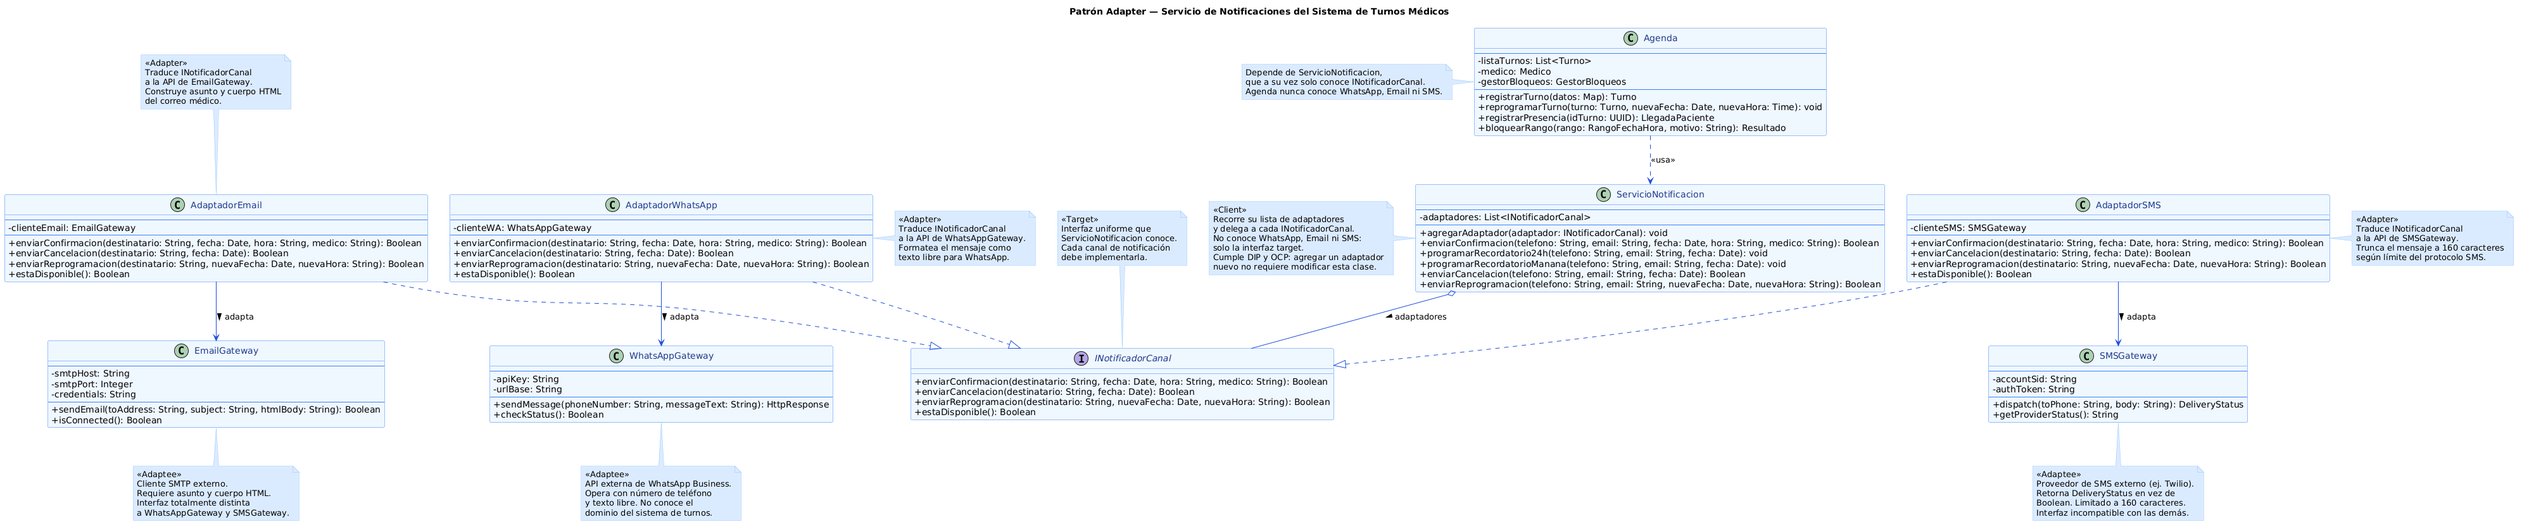
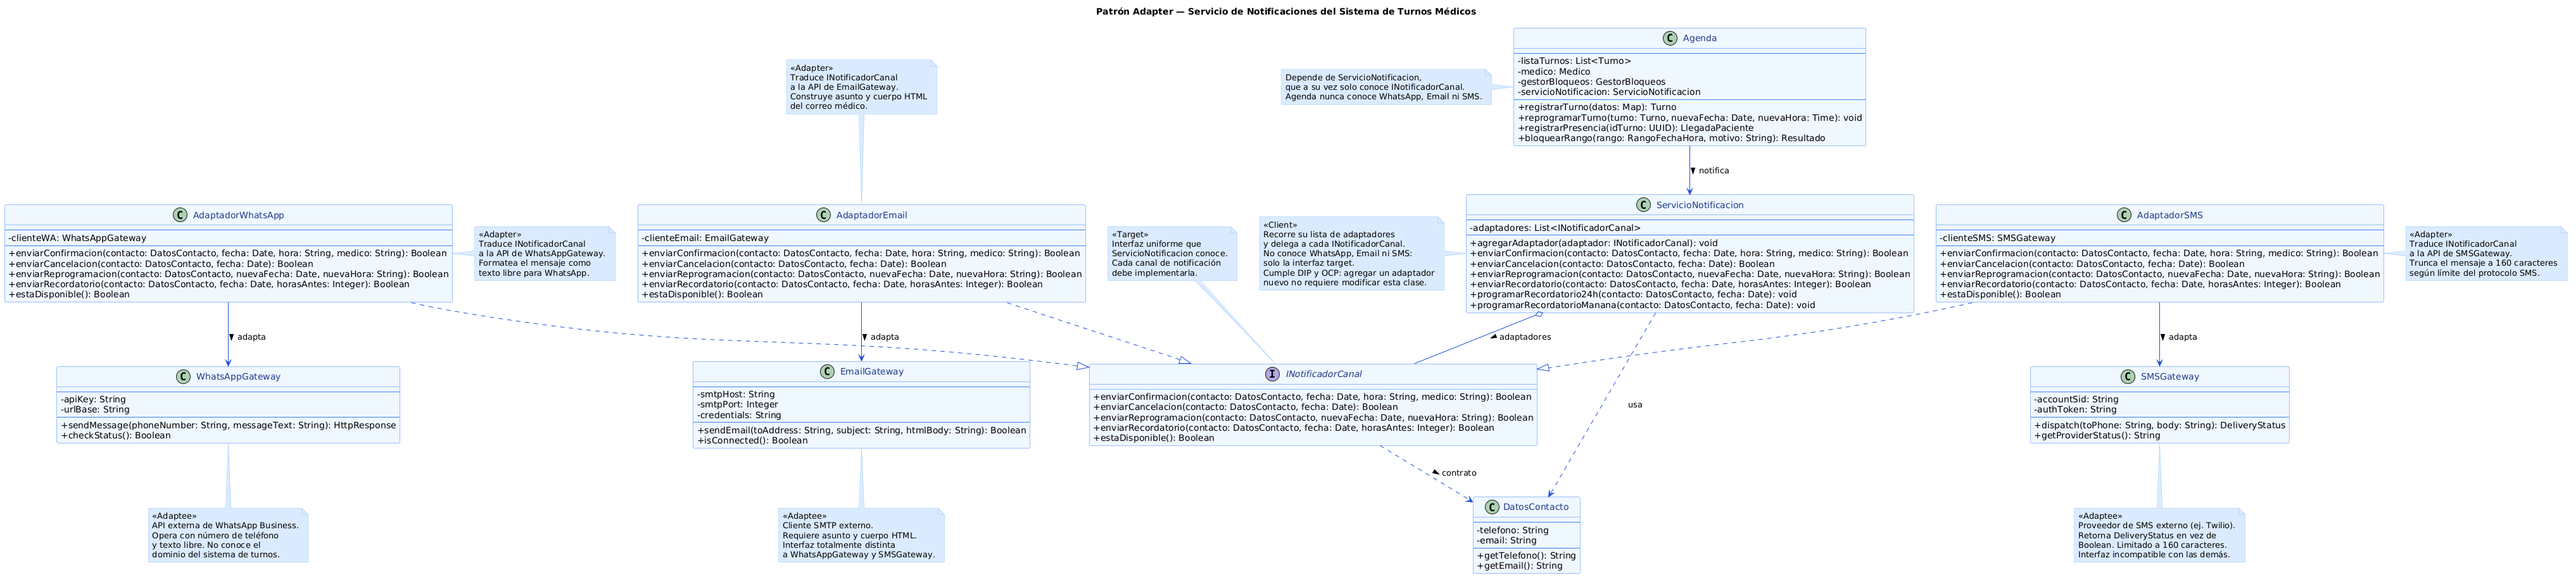
Commit - Correcciones y modificación de estructura en el archivo patron de dineno estructural

diff --git a/anexos/patrones-diseno/patron-de-diseno-estructural.md b/anexos/patrones-diseno/patron-de-diseno-estructural.md
@@ -1,62 +1,76 @@
-# Patrón de Diseño Estructural — Adapter
+# Anexo - Aplicacion de Patron de Diseno Estructural
+
+## Adapter - Patrones de Diseno Estructurales y su relacion con SOLID
 
 ---
 
-## 1. Propósito y Tipo del Patrón
+## Proposito y Tipo del Patron
 
-### Patrones estructurales y su relación con SOLID
+### Patrones estructurales y su relacion con SOLID
 
-Los patrones de diseño estructurales de GoF se ocupan de cómo se componen clases y objetos para formar estructuras más grandes, sin perder flexibilidad ni claridad. Su objetivo no es describir algoritmos ni flujos de control, sino establecer la forma en que las piezas del sistema se conectan entre sí.
+Los patrones de diseno estructurales de GoF se ocupan de como se componen clases y objetos para formar estructuras mas grandes, sin perder flexibilidad ni claridad. Su objetivo no es describir algoritmos ni flujos de control, sino establecer la forma en que las piezas del sistema se conectan entre si.
 
-Su relación con los principios SOLID es directa:
+Su relacion con los principios SOLID es directa:
 
-| Principio | Cómo lo refuerzan los patrones estructurales |
+| Principio | Como lo refuerzan los patrones estructurales |
 |-----------|---------------------------------------------|
-| SRP | Separan la lógica de adaptación o composición en clases dedicadas, evitando que una clase acumule responsabilidades de traducción además de las propias |
+| SRP | Separan la logica de adaptacion o composicion en clases dedicadas, evitando que una clase acumule responsabilidades de traduccion ademas de las propias |
 | OCP | Permiten extender el comportamiento del sistema (nuevos canales, componentes, decoradores) sin modificar las clases existentes |
 | DIP | El cliente depende de una abstracción (interfaz target), no de implementaciones concretas |
-| ISP | Las interfaces target son reducidas y específicas; cada adaptador implementa solo lo que corresponde |
+| ISP | Las interfaces target son reducidas y especificas; cada adaptador implementa solo lo que corresponde |
 
-### El patrón Adapter
+### Proposito:
 
-El patrón **Adapter** (también llamado *Wrapper*) permite que dos clases con interfaces incompatibles trabajen juntas. Introduce una clase intermediaria —el *Adapter*— que traduce las llamadas de la interfaz que el cliente conoce (*target*) a las llamadas que requiere la clase existente (*adaptee*).
+**Problema estructural:** `ServicioNotificacion` era una clase concreta que enviaba notificaciones unicamente a traves de WhatsApp. `Agenda` la creaba directamente (`<<crea>>`), acoplandose a una implementacion especifica. Para agregar notificaciones por email o SMS, era necesario modificar tanto `ServicioNotificacion` como `Agenda`, violando OCP y DIP. Adicionalmente, cada proveedor externo (WhatsApp Business API, SMTP, Twilio) expone una interfaz completamente distinta: metodos con nombres, parametros y tipos de retorno incompatibles entre si.
 
-### Problema específico y cómo el patrón lo soluciona
+**Como lo resuelve el patron:** Se introduce la interfaz `INotificadorCanal` como *target*. Cada proveedor externo es envuelto por un *Adapter* (`AdaptadorWhatsApp`, `AdaptadorEmail`, `AdaptadorSMS`) que traduce `INotificadorCanal` a la API del proveedor correspondiente. `ServicioNotificacion` pasa a ser el *client*: solo conoce `INotificadorCanal` y delega en los canales registrados. `Agenda` ya no crea ni conoce ningun canal concreto; solo usa `ServicioNotificacion`.
 
-**Problema:** `ServicioNotificacion` era una clase concreta que enviaba notificaciones únicamente a través de WhatsApp. `Agenda` la creaba directamente (`<<crea>>`), acoplándose a una implementación específica. Para agregar notificaciones por email o SMS, era necesario modificar tanto `ServicioNotificacion` como `Agenda`, violando OCP y DIP. Adicionalmente, cada proveedor externo (WhatsApp Business API, SMTP, Twilio) expone una interfaz completamente distinta: métodos con nombres, parámetros y tipos de retorno incompatibles entre sí.
+### Tipo:
 
-**Solución:** Se introduce la interfaz `INotificadorCanal` como *target*. Cada proveedor externo es envuelto por un *Adapter* (`AdaptadorWhatsApp`, `AdaptadorEmail`, `AdaptadorSMS`) que traduce `INotificadorCanal` a la API del proveedor correspondiente. `ServicioNotificacion` pasa a ser el *client*: solo conoce `INotificadorCanal` y delega en los canales registrados. `Agenda` ya no crea ni conoce ningún canal concreto; solo usa `ServicioNotificacion`.
+Patron estructural seleccionado: **Adapter**.
+
+El patron **Adapter** (tambien llamado *Wrapper*) permite que dos clases con interfaces incompatibles trabajen juntas. Introduce una clase intermediaria, el *Adapter*, que traduce las llamadas de la interfaz que el cliente conoce (*target*) a las llamadas que requiere la clase existente (*adaptee*).
+
+Se elige Adapter porque el problema principal del sistema es la incompatibilidad entre APIs externas de notificacion (WhatsApp, Email, SMS), y se necesita una interfaz uniforme para evitar acoplamiento y permitir extensibilidad.
 
 ---
 
-## 2. Motivación
+## Motivacion
 
-### Problema en profundidad
+En esta seccion se describe en detalle:
 
-El sistema de turnos médicos contempla notificaciones como parte del flujo de negocio: confirmación de turno (CU1), recordatorios automáticos, notificación de reprogramación (CU3) y cancelación de recordatorios tras check-in (CU2). En el diagrama final (v4), `Agenda` era responsable de crear `ServicioNotificacion` y `ServicioNotificacion` concentraba toda la lógica de envío para un único canal, WhatsApp.
+- Como estaban estructuradas inicialmente las clases del sistema.
+- Que problemas surgian debido a la rigidez de las relaciones entre clases (acoplamiento, complejidad, falta de extensibilidad).
+- Que clases participaban en el problema original.
+- Que nuevas clases incorpora el patron estructural y cual es el rol de cada una.
+- Como el patron organiza la arquitectura para resolver el inconveniente detectado (desacoplamiento, simplificacion, encapsulamiento).
 
-Este diseño presentaba tres problemas concretos:
+### Desarrollo del caso real
 
-1. **Dificultad para incorporar nuevos canales de notificación**
+El sistema de turnos medicos contempla notificaciones como parte del flujo de negocio: confirmacion de turno (CU1), recordatorios automaticos, notificacion de reprogramacion (CU3) y cancelacion de recordatorios tras check-in (CU2). En el diagrama final (v4), `Agenda` era responsable de crear `ServicioNotificacion` y `ServicioNotificacion` concentraba toda la logica de envio para un unico canal, WhatsApp.
 
-El sistema estaba diseñado para enviar notificaciones únicamente mediante WhatsApp. Si la clínica necesitaba incorporar un nuevo canal, como email o SMS, era necesario modificar ServicioNotificacion para agregar la lógica correspondiente. Esto dificultaba extender el sistema con nuevas alternativas de comunicación y hacía que cada incorporación implicara cambios sobre código existente.
+Este diseno presentaba tres problemas concretos:
+
+1. **Dificultad para incorporar nuevos canales de notificacion**
+
+El sistema estaba disenado para enviar notificaciones unicamente mediante WhatsApp. Si la clinica necesitaba incorporar un nuevo canal, como email o SMS, era necesario modificar `ServicioNotificacion` para agregar la logica correspondiente. Esto dificultaba extender el sistema con nuevas alternativas de comunicacion y hacia que cada incorporacion implicara cambios sobre codigo existente.
 
 2. **Interfaces externas incompatibles**
 
-Cada proveedor de notificaciones ofrece una API diferente. Mientras WhatsApp utiliza un método como sendMessage(phoneNumber, messageText), un servicio de correo electrónico requiere dirección, asunto y cuerpo del mensaje, y un proveedor de SMS puede devolver un tipo de dato distinto. Estas diferencias impiden utilizar todos los proveedores mediante una interfaz común, obligando al sistema a adaptarse a cada API en particular.
+Cada proveedor de notificaciones ofrece una API diferente. Mientras WhatsApp utiliza un metodo como `sendMessage(phoneNumber, messageText)`, un servicio de correo electronico requiere direccion, asunto y cuerpo del mensaje, y un proveedor de SMS puede devolver un tipo de dato distinto. Estas diferencias impiden utilizar todos los proveedores mediante una interfaz comun, obligando al sistema a adaptarse a cada API en particular.
 
 3. **Dependencia directa de infraestructura**
 
-La lógica del sistema quedaba vinculada a clases concretas encargadas de comunicarse con proveedores externos de notificaciones. Como consecuencia, las clases del dominio terminaban dependiendo de implementaciones específicas de infraestructura en lugar de hacerlo de una abstracción. Esto incrementaba el acoplamiento entre ambas capas y reducía la flexibilidad de la arquitectura ante cambios tecnológicos.
+La logica del sistema quedaba vinculada a clases concretas encargadas de comunicarse con proveedores externos de notificaciones. Como consecuencia, las clases del dominio terminaban dependiendo de implementaciones especificas de infraestructura en lugar de hacerlo de una abstraccion. Esto incrementaba el acoplamiento entre ambas capas y reducia la flexibilidad de la arquitectura ante cambios tecnologicos.
 
-### Cómo el patrón Adapter resuelve el problema
+### Como el patron Adapter resuelve el problema
 
-El patrón introduce un nivel de indirección mediante la interfaz *target* `INotificadorCanal`. El vocabulario del patrón en este sistema es el siguiente:
+El patron introduce un nivel de indireccion mediante la interfaz *target* `INotificadorCanal`. El vocabulario del patron en este sistema es el siguiente:
 
-| Rol GoF | Clase en el sistema | Descripción |
+| Rol GoF | Clase en el sistema | Descripcion |
 |---------|--------------------|-------------------------------------------------|
-| **Target** | `INotificadorCanal` | Interfaz uniforme que el client conoce. Define `enviarConfirmacion()`, `enviarCancelacion()`, `enviarReprogramacion()` y `estaDisponible()` |
-| **Client** | `ServicioNotificacion` | Usa `INotificadorCanal`. Mantiene una lista de adapters para traducir la misma operación de negocio a APIs externas incompatibles, sin conocer proveedores concretos |
+| **Target** | `INotificadorCanal` | Interfaz uniforme que el client conoce. Define `enviarConfirmacion()`, `enviarCancelacion()`, `enviarReprogramacion()`, `enviarRecordatorio()` y `estaDisponible()` |
+| **Client** | `ServicioNotificacion` | Usa `INotificadorCanal`. Mantiene una lista de adapters para traducir la misma operacion de negocio a APIs externas incompatibles, sin conocer proveedores concretos |
 | **Adapter** | `AdaptadorWhatsApp` | Implementa `INotificadorCanal` y traduce las llamadas a `WhatsAppGateway.sendMessage()` |
 | **Adapter** | `AdaptadorEmail` | Implementa `INotificadorCanal` y construye asunto + cuerpo HTML antes de llamar a `EmailGateway.sendEmail()` |
 | **Adapter** | `AdaptadorSMS` | Implementa `INotificadorCanal`, trunca el mensaje a 160 caracteres y convierte el `DeliveryStatus` de retorno a `Boolean` antes de delegar en `SMSGateway.dispatch()` |
@@ -66,34 +80,62 @@ El patrón introduce un nivel de indirección mediante la interfaz *target* `INo
 
 ### Clases implicadas: rol y responsabilidad
 
-**`INotificadorCanal` (nueva — target):**  
-Define el contrato mínimo para cualquier canal de notificación del sistema. Es la única cosa que `ServicioNotificacion` conoce de los canales. Su existencia permite cumplir DIP: el dominio depende de esta abstracción, nunca de los proveedores concretos.
+**`INotificadorCanal` (nueva - target):**
+Define el contrato minimo para cualquier canal de notificacion del sistema. Es la unica cosa que `ServicioNotificacion` conoce de los canales. Su existencia permite cumplir DIP: el dominio depende de esta abstraccion, nunca de los proveedores concretos.
 
-**`ServicioNotificacion` (modificada — client):**  
-Deja de ser un canal concreto y pasa a ser un *orquestador de adapters*. Mantiene una lista de `INotificadorCanal` porque cada elemento traduce el mismo contrato del dominio hacia una API externa incompatible. Al recibir una solicitud de notificación, delega en los adapters disponibles sin conocer detalles del proveedor. Esta separación hace explícito que la responsabilidad central es la adaptación de interfaces y no la lógica del canal externo.
+**`ServicioNotificacion` (modificada - client):**
+Deja de ser un canal concreto y pasa a ser un *orquestador de adapters*. Mantiene una lista de `INotificadorCanal` porque cada elemento traduce el mismo contrato del dominio hacia una API externa incompatible. Al recibir una solicitud de notificacion, delega en los adapters disponibles sin conocer detalles del proveedor. Esta separacion hace explicito que la responsabilidad central es la adaptacion de interfaces y no la logica del canal externo.
 
-**`AdaptadorWhatsApp`, `AdaptadorEmail`, `AdaptadorSMS` (nuevas — adapters):**  
-Cada uno conoce exactamente un adaptee. Su única responsabilidad es traducir el vocabulario de `INotificadorCanal` al vocabulario de la API concreta. Por ejemplo, `AdaptadorSMS` sabe que `SMSGateway.dispatch()` devuelve `DeliveryStatus`, y lo convierte a `Boolean` para respetar el contrato del target. Cada adapter también implementa `estaDisponible()` consultando el estado del proveedor, lo que permite que `ServicioNotificacion` omita un canal si su proveedor está caído.
+**`AdaptadorWhatsApp`, `AdaptadorEmail`, `AdaptadorSMS` (nuevas - adapters):**
+Cada uno conoce exactamente un adaptee. Su unica responsabilidad es traducir el vocabulario de `INotificadorCanal` al vocabulario de la API concreta. Por ejemplo, `AdaptadorSMS` sabe que `SMSGateway.dispatch()` devuelve `DeliveryStatus`, y lo convierte a `Boolean` para respetar el contrato del target. Cada adapter tambien implementa `estaDisponible()` consultando el estado del proveedor, lo que permite que `ServicioNotificacion` omita un canal si su proveedor esta caido.
 
-**`WhatsAppGateway`, `EmailGateway`, `SMSGateway` (existentes o de terceros — adaptees):**  
-Son clases externas cuya interfaz no se controla ni se modifica. El patrón Adapter es precisamente la herramienta para trabajar con APIs de terceros sin acoplar el dominio a ellas.
+**`WhatsAppGateway`, `EmailGateway`, `SMSGateway` (existentes o de terceros - adaptees):**
+Son clases externas cuya interfaz no se controla ni se modifica. El patron Adapter es precisamente la herramienta para trabajar con APIs de terceros sin acoplar el dominio a ellas.
 
-**`Agenda` (sin cambios en su interfaz):**  
-Sigue usando `ServicioNotificacion` para notificaciones. Con el patrón aplicado, `Agenda` no necesita cambiar cuando se incorpora un nuevo canal: basta con crear un nuevo adapter e inyectarlo en `ServicioNotificacion`.
+**`Agenda` (sin cambios en su interfaz):**
+Sigue usando `ServicioNotificacion` para notificaciones. Con el patron aplicado, `Agenda` no necesita cambiar cuando se incorpora un nuevo canal: basta con crear un nuevo adapter e inyectarlo en `ServicioNotificacion`.
 
-### Diagrama de clases
+## Estructura de Clases
 
-## Patrón Estructural - Adapter
-![Patrón Estructural - Adapter](../../diagramas/01-diagrama-clases/01-patron-estructural-adapter.png)
+Solo se incluyen en el diagrama las clases directamente relacionadas con la aplicacion del patron, evitando sobrecargarlo con detalles irrelevantes. Esto permite visualizar claramente la estructura solucion-problema.
+
+### Ver diagrama en tamano completo
+
+![Patron Estructural - Adapter](../../diagramas/01-diagrama-clases/01-patron-estructural-adapter.png)
 
 
 ---
 
-## 3. Relación con los principios SOLID del proyecto
+## Justificacion Tecnica de la Estructura de Clases
 
-| Principio | Impacto del patrón Adapter |
+En esta seccion se proporciona una explicacion tecnica basada en el diagrama UML presentado anteriormente.
+
+### Descripcion de cada clase incluida en el diagrama
+
+**`INotificadorCanal` (nueva - target):**
+Define el contrato minimo para cualquier canal de notificacion del sistema. Es la unica cosa que `ServicioNotificacion` conoce de los canales. Su existencia permite cumplir DIP: el dominio depende de esta abstraccion, nunca de los proveedores concretos.
+
+**`ServicioNotificacion` (modificada - client):**
+Deja de ser un canal concreto y pasa a ser un *orquestador de adapters*. Mantiene una lista de `INotificadorCanal` porque cada elemento traduce el mismo contrato del dominio hacia una API externa incompatible. Al recibir una solicitud de notificacion, delega en los adapters disponibles sin conocer detalles del proveedor.
+
+**`AdaptadorWhatsApp`, `AdaptadorEmail`, `AdaptadorSMS` (nuevas - adapters):**
+Cada uno conoce exactamente un adaptee. Su unica responsabilidad es traducir el vocabulario de `INotificadorCanal` al vocabulario de la API concreta.
+
+**`WhatsAppGateway`, `EmailGateway`, `SMSGateway` (existentes o de terceros - adaptees):**
+Son clases externas cuya interfaz no se controla ni se modifica. El patron Adapter es la herramienta para trabajar con APIs de terceros sin acoplar el dominio a ellas.
+
+**`Agenda` (contexto de uso):**
+Sigue usando `ServicioNotificacion` para notificaciones. Con el patron aplicado, `Agenda` no necesita cambiar cuando se incorpora un nuevo canal: basta con crear un nuevo adapter e inyectarlo en `ServicioNotificacion`.
+
+### Explicacion del flujo estructural
+
+`Agenda` delega en `ServicioNotificacion` las operaciones de notificacion. `ServicioNotificacion` no conoce proveedores concretos: itera sobre una lista de `INotificadorCanal` y ejecuta operaciones del contrato comun. Cada adapter traduce esa llamada a su API externa (adaptee), resolviendo la incompatibilidad de interfaces entre cliente de dominio y servicios de infraestructura.
+
+## Relacion con los principios SOLID del proyecto
+
+| Principio | Impacto del patron Adapter |
 |-----------|---------------------------|
-| **SRP** | Cada adapter tiene una única responsabilidad: traducir un proveedor. `ServicioNotificacion` tiene una sola responsabilidad: orquestar canales. Ya no mezcla lógica de WhatsApp con la de otros canales |
-| **OCP** | Para agregar un canal nuevo (ej. notificación push) basta con crear `AdaptadorPush` que implemente `INotificadorCanal` e inyectarlo. Ni `ServicioNotificacion` ni `Agenda` se modifican |
+| **SRP** | Cada adapter tiene una unica responsabilidad: traducir un proveedor. `ServicioNotificacion` tiene una sola responsabilidad: orquestar canales. Ya no mezcla logica de WhatsApp con la de otros canales |
+| **OCP** | Para agregar un canal nuevo (ej. notificacion push) basta con crear `AdaptadorPush` que implemente `INotificadorCanal` e inyectarlo. Ni `ServicioNotificacion` ni `Agenda` se modifican |
 | **LSP** | Cualquier `INotificadorCanal` puede reemplazar a otro en `ServicioNotificacion` sin alterar el comportamiento esperado. El contrato del target se respeta en todos los adapters |
-| **DIP** | `Agenda` depende de `ServicioNotificacion`; esta depende de `INotificadorCanal`, una abstracción. Ninguna clase del dominio depende de `WhatsAppGateway`, `EmailGateway` ni `SMSGateway` |
+| **DIP** | `Agenda` depende de `ServicioNotificacion`; esta depende de `INotificadorCanal`, una abstraccion. Ninguna clase del dominio depende de `WhatsAppGateway`, `EmailGateway` ni `SMSGateway` |

diff --git a/changelog.md b/changelog.md
@@ -4,7 +4,7 @@
 
 ### Added
 
-- [feature/esp-patron-estructural-add-patron-adapter] Adde branch Especialista de patron Estructural & archivos correspondiente PR: [#](https://github.com/angelgc9107-lgtm/SistemaTurnosMedicos_GP6/pull/) — angelgc9107-lgtm - Especialista Patron Diseño Estructural
+- [feature/esp-patron-estructural-add-patron-adapter] Adde branch Especialista de patron Estructural & archivos correspondiente PR: [#214](https://github.com/angelgc9107-lgtm/SistemaTurnosMedicos_GP6/pull/214) — angelgc9107-lgtm - Especialista Patron Diseño Estructural
 
 
 ## [Released Actividad Obligatoria N°4] - 2026-06-18

diff --git a/ia/segundo-parcial/especialista-patron-estructural.md b/ia/segundo-parcial/especialista-patron-estructural.md
@@ -51,6 +51,7 @@ Una explicación breve de por qué el patrón elegido es correcto para este caso
 - Se modifico una explicación del patrón "Adapter" ambigua y podia generar incoherencias
 - Modificación en el archivo 01-patron-estructural-adapter.puml para que coincida con las modificaciones realizadas en el archivo patron-de-diseno-estructural.md.
 - Se modifico la ubicación de la nota en el archivo puml.
+- Se realizaron ajustes al archivo patron-de-diseno.estructural.md para que coincida con la estructura propuesta en la consigna.
 
 
 ### interaciones 1

diff --git a/anexos/anexos.md b/anexos/anexos.md
@@ -3,4 +3,4 @@
 - [Anexo - Introducción al Diseño Orientado a Objetos](introduccion.md)
 - [Anexo - Principios SOLID](/anexos/principios-solid/principios_solid.md)
 - [Anexo - Análisis Funcional por Caso de Uso](/anexos/analisis-funcional/analisis_casos_uso.md)
-- [Anexo - Patrones de Diseño]()
+- [Anexo - Patrones Diseño](/anexos/patrones-diseño/patrones_diseno.md)

diff --git a/anexos/patrones-diseno/patrones_diseno.md b/anexos/patrones-diseno/patrones_diseno.md
@@ -1,0 +1,3 @@
+### ANEXO - Patrones de Diseño
+
+- [Patrón de Diseño Estructural - Adapter](anexos\patrones-diseno\patron-de-diseno-estructural.md)
